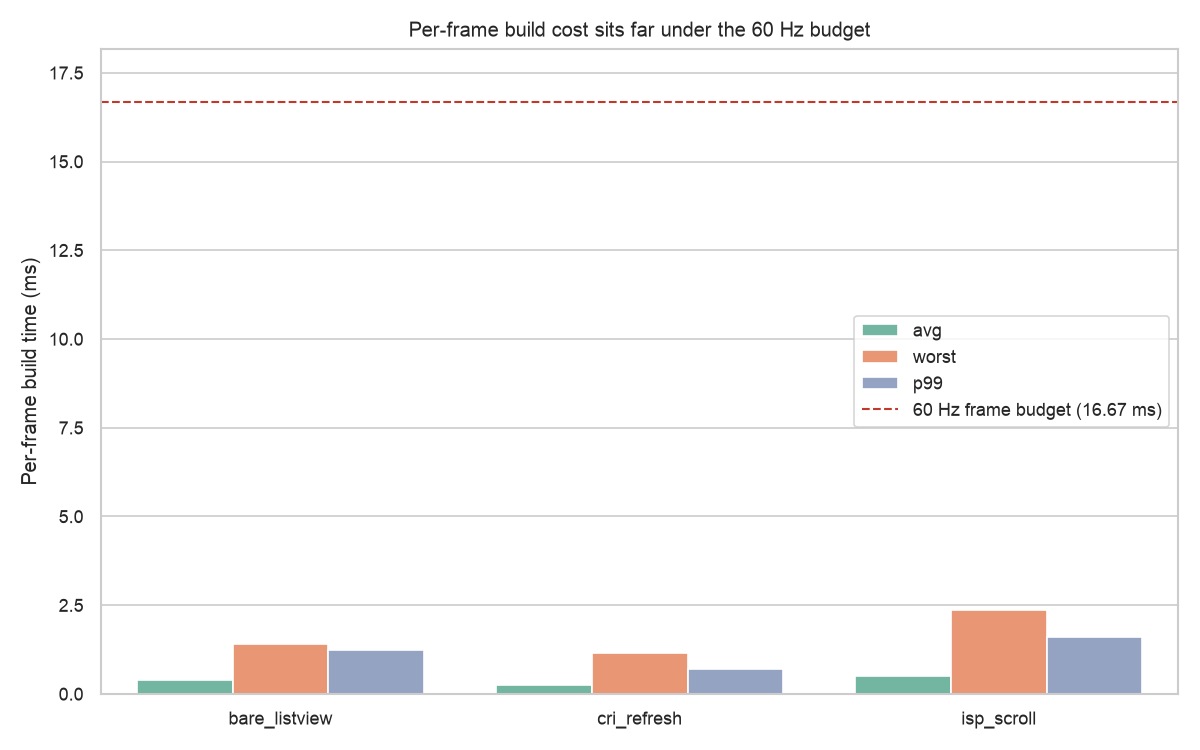
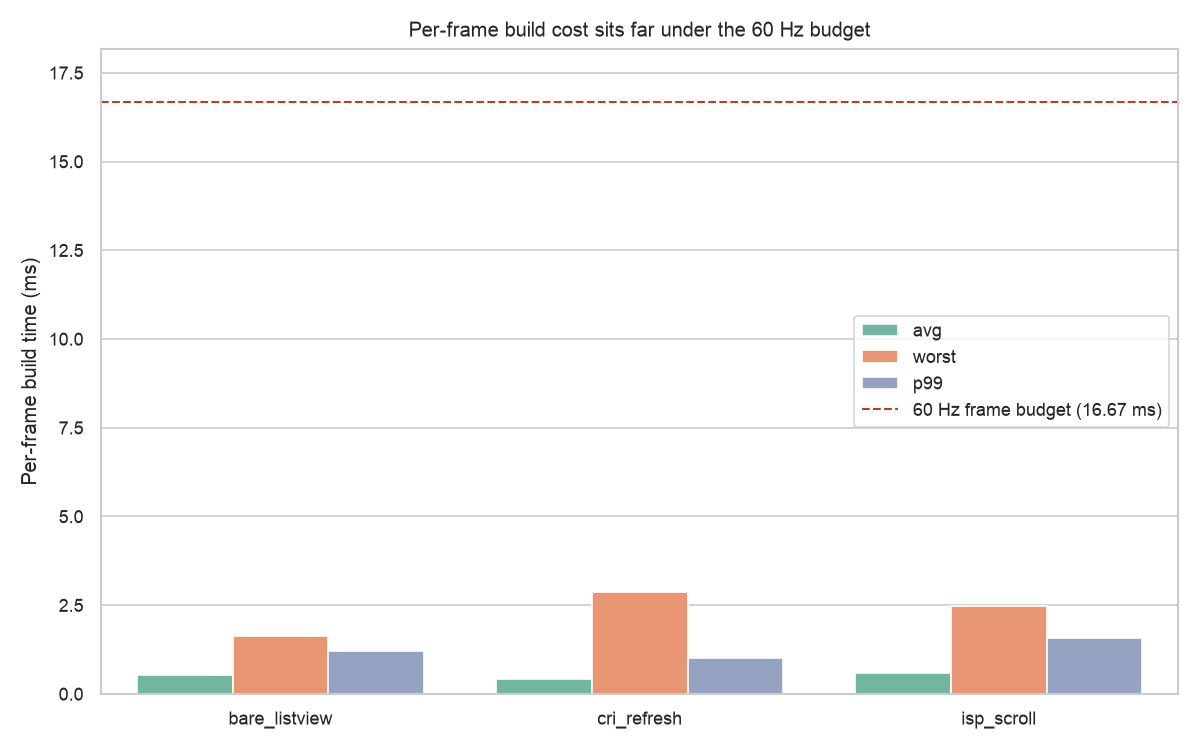
benchmark(grouping): measure bucketByGroup, regenerate the report

diff --git a/benchmark/micro/bucket_by_group_scaling.dart b/benchmark/micro/bucket_by_group_scaling.dart
@@ -1,0 +1,74 @@
+/// Micro-benchmark: [bucketByGroup] cost as the in-memory list grows.
+///
+/// The sync grouping path reorders its (filtered) items into contiguous sections via `bucketByGroup`
+/// (a `groupListsBy` + flatten) synchronously on every committed query, before rendering. Measuring
+/// it AOT across a range of list sizes puts a trustworthy microseconds figure on where a big grouped
+/// list crosses the frame budget. The key extractor is a cheap modulo into a fixed number of groups,
+/// over fully interleaved input, so it exercises the real bucketing (every item reordered).
+library;
+
+import 'package:benchmark_harness/benchmark_harness.dart';
+import 'package:list_smith/src/data/grouping/utils/grouping_resolver.dart';
+
+import '../harness/result_writer.dart';
+import '../harness/scenario_args.dart';
+
+/// In-memory list sizes the resolver is measured against; the pivot for the scaling curve.
+const _listSizes = <int>[1000, 10000, 100000];
+
+/// The number of groups the key buckets into; a realistic small section count.
+const _groupCount = 8;
+
+final class _BucketByGroupScaling extends BenchmarkBase {
+  _BucketByGroupScaling(this.listSize) : super('bucket_by_group_scaling_n$listSize');
+
+  final int listSize;
+  late final List<int> _items;
+  var lastBucketedCount = 0;
+
+  @override
+  void setup() => _items = List<int>.generate(listSize, (i) => i, growable: false);
+
+  @override
+  void run() {
+    final bucketed = bucketByGroup(_items, _groupKey);
+    lastBucketedCount = bucketed.length;
+  }
+
+  static Object _groupKey(int item) => item % _groupCount;
+}
+
+Future<void> main(List<String> argv) async {
+  final args = ScenarioArgs.parse(argv);
+
+  final writer = await ResultWriter.open(
+    outputPath: args.outputPath,
+    scenario: 'bucket_by_group_scaling',
+    sdkVersion: ScenarioArgs.sdkVersion,
+    packageVersion: args.packageVersion,
+    gitSha: args.gitSha,
+  );
+
+  for (var i = 0; i < args.iterations; i++) {
+    for (final listSize in _listSizes) {
+      final benchmark = _BucketByGroupScaling(listSize);
+
+      forceGc();
+      final microseconds = benchmark.measure();
+
+      writer.writeRecord(
+        iteration: i,
+        samples: {
+          'microseconds_per_bucket': [microseconds],
+        },
+        summary: {
+          'list_size': listSize,
+          'microseconds_per_bucket': microseconds,
+          'bucketed_count': benchmark.lastBucketedCount,
+        },
+      );
+    }
+  }
+
+  await writer.close();
+}

diff --git a/benchmark/python/list_smith_bench/data/utils/charts.py b/benchmark/python/list_smith_bench/data/utils/charts.py
@@ -93,6 +93,57 @@ def plot_sync_search_scaling(dataframe: pl.DataFrame, out_path: Path) -> Path | 
     return out_path
 
 
+def plot_bucket_by_group_scaling(dataframe: pl.DataFrame, out_path: Path) -> Path | None:
+    """Line plot of `microseconds_per_bucket` vs `list_size`, with the 60 Hz frame budget marked.
+
+    From the `bucket_by_group_scaling` micro: the synchronous cost of reordering a filtered
+    in-memory list into contiguous sections on each committed query. Where the line crosses the
+    frame-budget rule is the practical ceiling for sync grouping.
+
+    Returns None (writes nothing) when the input has no `bucket_by_group_scaling` data.
+    """
+    metric = "microseconds_per_bucket"
+    if metric not in dataframe.columns or "list_size" not in dataframe.columns:
+        return None
+
+    plot_df = (
+        dataframe.filter(pl.col("scenario") == "bucket_by_group_scaling")
+        .filter(pl.col(metric).is_not_null())
+        .filter(pl.col("list_size").is_not_null())
+        .select(["list_size", metric])
+        .to_pandas()
+    )
+    if plot_df.empty:
+        return None
+
+    fig, ax = plt.subplots(figsize=(8, 5))
+    sns.pointplot(
+        data=plot_df,
+        x="list_size",
+        y=metric,
+        ax=ax,
+        errorbar=("pi", 50),
+        marker="o",
+        linestyle="-",
+        color="#55a868",
+    )
+    ax.axhline(
+        FRAME_BUDGET_MICROS_60HZ,
+        color="#c0392b",
+        linestyle="--",
+        linewidth=1.0,
+        label="60 Hz frame budget (16.67 ms)",
+    )
+    ax.set_xlabel("In-memory list size (items)")
+    ax.set_ylabel("bucketByGroup cost (us)")
+    ax.set_title("Sync grouping cost scales linearly with list size")
+    ax.legend(loc="best")
+    plt.tight_layout()
+    fig.savefig(out_path, dpi=CHART_DPI)
+    plt.close(fig)
+    return out_path
+
+
 def plot_frame_costs(dataframe: pl.DataFrame, out_path: Path) -> Path | None:
     """Grouped bars of per-frame build cost (avg / worst / p99) per scroll/refresh scenario.
 

diff --git a/benchmark/python/list_smith_bench/data/utils/markdown.py b/benchmark/python/list_smith_bench/data/utils/markdown.py
@@ -73,6 +73,42 @@ def sync_search_scaling_table(dataframe: pl.DataFrame) -> str:
     return "\n".join(rows) + "\n"
 
 
+def bucket_by_group_scaling_table(dataframe: pl.DataFrame) -> str:
+    """Markdown table of bucketing cost per `list_size` for the `bucket_by_group_scaling` micro."""
+    metric = "microseconds_per_bucket"
+    if metric not in dataframe.columns or "list_size" not in dataframe.columns:
+        return "_(no bucket_by_group_scaling data in input)_\n"
+
+    df = dataframe.filter(pl.col(metric).is_not_null()).filter(pl.col("list_size").is_not_null())
+    if df.is_empty():
+        return "_(no bucket_by_group_scaling data in input)_\n"
+
+    agg = (
+        df.group_by("list_size")
+        .agg(
+            pl.col(metric).count().alias("n"),
+            pl.col(metric).median().alias("median"),
+            pl.col(metric).quantile(0.25).alias("q25"),
+            pl.col(metric).quantile(0.75).alias("q75"),
+        )
+        .sort("list_size")
+    )
+
+    fmt = value_formatter("us")
+    rows = [
+        "| List size | N | Median (us) | IQR (us) | Median (ms) |",
+        "|---:|---:|---:|---:|---:|",
+    ]
+    for row in agg.iter_rows(named=True):
+        iqr = row["q75"] - row["q25"]
+        median_ms = row["median"] / 1000.0
+        rows.append(
+            f"| {row['list_size']:,} | {row['n']} | {fmt(row['median'])} "
+            f"| {fmt(iqr)} | {median_ms:,.2f} |"
+        )
+    return "\n".join(rows) + "\n"
+
+
 def overhead_table(dataframe: pl.DataFrame) -> str:
     """Table of the overhead micros: observer_dispatch + wrapping_overhead by page count."""
     fmt = value_formatter("us")
@@ -220,6 +256,21 @@ def render_summary_markdown(
 
     if "sync_search_scaling.png" in chart_names:
         parts.append("\n![Sync-search scaling](sync_search_scaling.png)\n")
+
+    parts.extend(
+        [
+            "## Sync grouping (bucketing) cost vs list size\n",
+            "From the `bucket_by_group_scaling` micro (AOT, `benchmark_harness`). Sync grouping "
+            "reorders the filtered items into contiguous sections via `bucketByGroup` "
+            "(`groupListsBy` + flatten) on every committed query; this measures that cost as the "
+            "list grows, over fully interleaved input (worst-case reordering). It stacks on the "
+            "search-filter cost above when a sync list both searches and groups.\n",
+            bucket_by_group_scaling_table(dataframe),
+        ]
+    )
+
+    if "bucket_by_group_scaling.png" in chart_names:
+        parts.append("\n![Sync grouping scaling](bucket_by_group_scaling.png)\n")
 
     parts.extend(
         [

diff --git a/benchmark/python/list_smith_bench/config.py b/benchmark/python/list_smith_bench/config.py
@@ -48,11 +48,11 @@ WARMUP_ITERATIONS: Final[int] = 2
 FALLBACK_DURATION: Final[int] = 10
 
 # Entrypoints that emit MORE THAN ONE record per run (one per pivot value): sync_search_scaling
-# sweeps list sizes, wrapping_overhead sweeps loaded-page counts, slow_observer sweeps observer
-# delays. Used when picking the "iterations per scenario" figure for report headers, so their
-# per-pivot fan-out doesn't inflate it.
+# and bucket_by_group_scaling sweep list sizes, wrapping_overhead sweeps loaded-page counts,
+# slow_observer sweeps observer delays. Used when picking the "iterations per scenario" figure for
+# report headers, so their per-pivot fan-out doesn't inflate it.
 MULTI_RECORD_SCENARIOS: Final[frozenset[str]] = frozenset(
-    {"sync_search_scaling", "wrapping_overhead", "slow_observer"}
+    {"sync_search_scaling", "bucket_by_group_scaling", "wrapping_overhead", "slow_observer"}
 )
 
 # ---- chart style ----------------------------------------------------------

diff --git a/benchmark/python/list_smith_bench/subcommands/report.py b/benchmark/python/list_smith_bench/subcommands/report.py
@@ -47,6 +47,11 @@ def cmd_report(args: argparse.Namespace) -> int:
     scaling_chart = charts.plot_sync_search_scaling(dataframe, out_dir / "sync_search_scaling.png")
     if scaling_chart is not None:
         chart_paths.append(scaling_chart)
+    grouping_chart = charts.plot_bucket_by_group_scaling(
+        dataframe, out_dir / "bucket_by_group_scaling.png"
+    )
+    if grouping_chart is not None:
+        chart_paths.append(grouping_chart)
     frame_chart = charts.plot_frame_costs(dataframe, out_dir / "frame_costs.png")
     if frame_chart is not None:
         chart_paths.append(frame_chart)

diff --git a/benchmark/reports/SUMMARY.md b/benchmark/reports/SUMMARY.md
@@ -1,6 +1,6 @@
 # Benchmark results
 
-Captured **2026-07-13** against `0.0.0` at `b415852` on Dart SDK 3.12.2. N=10 iterations.
+Captured **2026-07-16** against `0.0.1` at `6e8008a` on Dart SDK 3.12.2. N=10 iterations.
 
 > Per-machine measurements. Numbers reflect *this* machine (CPU, GPU, GC, OS scheduler, thermal state). Your numbers WILL differ; capture your own local baseline before measuring a code delta.
 
@@ -10,10 +10,10 @@ The headline finding. `slow_observer` (profile-mode) wires an observer that bloc
 
 | Observer delay (ms) | Median render latency (ms) | Render minus observer (ms) | N |
 |---:|---:|---:|---:|
-| 0 | 17.2 | 17.2 | 10 |
-| 25 | 42.3 | 17.3 | 10 |
-| 50 | 67.6 | 17.6 | 10 |
-| 100 | 117.8 | 17.8 | 10 |
+| 0 | 17.0 | 17.0 | 10 |
+| 25 | 43.1 | 18.1 | 10 |
+| 50 | 68.4 | 18.4 | 10 |
+| 100 | 118.7 | 18.7 | 10 |
 
 
 ![Render latency vs observer delay](observer_latency.png)
@@ -24,12 +24,25 @@ From the `sync_search_scaling` micro (AOT, `benchmark_harness`). `SyncListView` 
 
 | List size | N | Median (us) | IQR (us) | Median (ms) |
 |---:|---:|---:|---:|---:|
-| 1,000 | 10 | 379.50 | 2.26 | 0.38 |
-| 10,000 | 10 | 3,982 | 20.10 | 3.98 |
-| 100,000 | 10 | 41,427 | 332.57 | 41.43 |
+| 1,000 | 10 | 371.14 | 4.35 | 0.37 |
+| 10,000 | 10 | 3,931 | 26.12 | 3.93 |
+| 100,000 | 10 | 41,191 | 391.72 | 41.19 |
 
 
 ![Sync-search scaling](sync_search_scaling.png)
+
+## Sync grouping (bucketing) cost vs list size
+
+From the `bucket_by_group_scaling` micro (AOT, `benchmark_harness`). Sync grouping reorders the filtered items into contiguous sections via `bucketByGroup` (`groupListsBy` + flatten) on every committed query; this measures that cost as the list grows, over fully interleaved input (worst-case reordering). It stacks on the search-filter cost above when a sync list both searches and groups.
+
+| List size | N | Median (us) | IQR (us) | Median (ms) |
+|---:|---:|---:|---:|---:|
+| 1,000 | 10 | 229.34 | 5.03 | 0.23 |
+| 10,000 | 10 | 2,361 | 16.32 | 2.36 |
+| 100,000 | 10 | 26,958 | 417.28 | 26.96 |
+
+
+![Sync grouping scaling](bucket_by_group_scaling.png)
 
 ## Wrapping overhead: list_smith on top of ISP
 
@@ -38,9 +51,9 @@ Confirms the wrapping costs ~nothing. `observer_dispatch` is one no-op observer 
 | Micro | Metric | Median (us) |
 |---|---|---:|
 | `observer_dispatch` | us / dispatch | 0.011 |
-| `wrapping_overhead` (1 page) | us / key | 0.534 |
+| `wrapping_overhead` (1 page) | us / key | 0.519 |
 | `wrapping_overhead` (10 pages) | us / key | 1.28 |
-| `wrapping_overhead` (100 pages) | us / key | 7.88 |
+| `wrapping_overhead` (100 pages) | us / key | 7.85 |
 
 ## UI scroll/refresh: per-frame build cost
 
@@ -48,9 +61,9 @@ From the profile-mode `integration_test` scenarios (real frames on this machine)
 
 | Scenario | Frames | Avg build (ms) | Worst build (ms) | p99 build (ms) | Missed |
 |---|---:|---:|---:|---:|---:|
-| `bare_listview` | 610 | 0.38 | 1.39 | 1.24 | 0 |
-| `cri_refresh` | 850 | 0.26 | 1.16 | 0.71 | 0 |
-| `isp_scroll` | 610 | 0.50 | 2.37 | 1.60 | 0 |
+| `bare_listview` | 610 | 0.53 | 1.64 | 1.21 | 0 |
+| `cri_refresh` | 850 | 0.42 | 2.87 | 1.01 | 0 |
+| `isp_scroll` | 610 | 0.58 | 2.48 | 1.57 | 0 |
 
 
 ![Per-frame build cost](frame_costs.png)

diff --git a/README.md b/README.md
@@ -381,6 +381,9 @@ the wrapping is close to free. Measured on one machine (yours will differ), from
   query. With a naive case-insensitive `contains` that's ~0.4 ms at 1k items, ~4 ms at 10k, and
   ~42 ms at 100k, where it crosses the frame budget. For big in-memory lists, lean on the built-in
   debounce or reach for the async path.
+- **Grouping scales the same way, a bit cheaper.** A `Grouping` on `ListSmith.sync` buckets the
+  filtered items into sections on each committed query: ~0.2 ms at 1k, ~2.4 ms at 10k, and ~27 ms at
+  100k. Same "big list, lean on debounce or async" caveat as sync search.
 - **Observers are on the critical path.** list_smith calls your `observer` synchronously while
   a page loads, so a slow callback delays rendering roughly 1:1 (a 50 ms observer pushed render
   latency to ~68 ms). Keep them cheap: log, count, report; do heavy work elsewhere.
@@ -395,6 +398,8 @@ regressions.
 ![Per-frame build cost vs the 60 Hz budget](benchmark/reports/frame_costs.png)
 
 ![Sync-search cost vs list size](benchmark/reports/sync_search_scaling.png)
+
+![Sync grouping cost vs list size](benchmark/reports/bucket_by_group_scaling.png)
 
 ## Roadmap
 